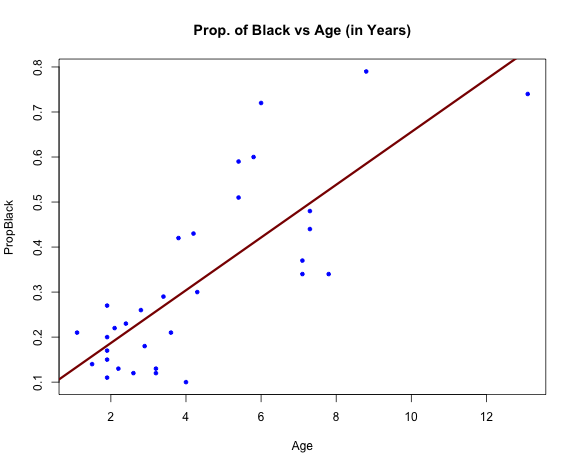
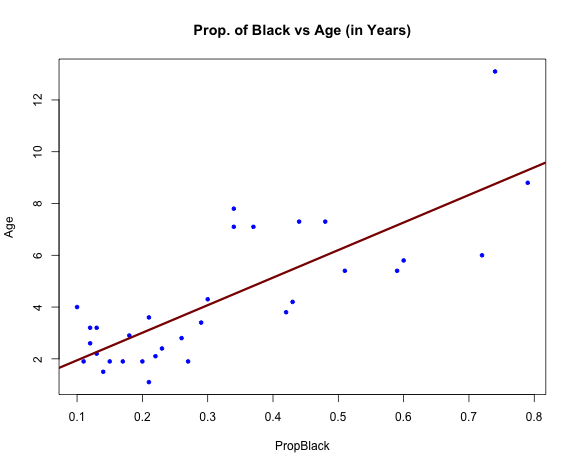
Commit
Commit

diff --git a/index.html b/index.html
@@ -487,7 +487,7 @@ class: inverse, center, middle
 
 --
 
-- Compares the sample quantiles to the quantiles of a theoretical normal distribution
+- Compares the sample quantiles to the quantiles of a theoretical distribution
 
 &lt;br&gt;
 
@@ -810,20 +810,20 @@ To assess model assumptions using real data, we'll use the **`Lion Nose`** datas
 ```
 ## 
 ## Call:
-## lm(formula = PropBlack ~ Age, data = Lion)
+## lm(formula = Age ~ PropBlack, data = Lion)
 ## 
 ## Residuals:
-##      Min       1Q   Median       3Q      Max 
-## -0.20406 -0.07758 -0.01750  0.07913  0.29876 
+##     Min      1Q  Median      3Q     Max 
+## -2.5449 -1.1117 -0.5285  0.9635  4.3421 
 ## 
 ## Coefficients:
 ##             Estimate Std. Error t value Pr(&gt;|t|)    
-## (Intercept) 0.069696   0.041956   1.661    0.107    
-## Age         0.058591   0.008307   7.053 7.68e-08 ***
+## (Intercept)   0.8790     0.5688   1.545    0.133    
+## PropBlack    10.6471     1.5095   7.053 7.68e-08 ***
 ## ---
 ## Signif. codes:  0 '***' 0.001 '**' 0.01 '*' 0.05 '.' 0.1 ' ' 1
 ## 
-## Residual standard error: 0.1238 on 30 degrees of freedom
+## Residual standard error: 1.669 on 30 degrees of freedom
 ## Multiple R-squared:  0.6238,	Adjusted R-squared:  0.6113 
 ## F-statistic: 49.75 on 1 and 30 DF,  p-value: 7.677e-08
 ```
@@ -851,7 +851,7 @@ To assess model assumptions using real data, we'll use the **`Lion Nose`** datas
 ## 	studentized Breusch-Pagan test
 ## 
 ## data:  mod_fit
-## BP = 4.7224, df = 1, p-value = 0.02977
+## BP = 6.8946, df = 1, p-value = 0.008646
 ```
 
 
@@ -887,14 +887,14 @@ We will use the qqnorm to check for normality assumption and verify this using t
 ## 	Shapiro-Wilk normality test
 ## 
 ## data:  resid(mod_fit)
-## W = 0.9665, p-value = 0.4087
+## W = 0.93879, p-value = 0.0692
 ```
 
 ]
 
 --
 
-From the Shapiro normality test, with a P-value &gt; 0.05 (and at any conventional level of significance), we have evidence to conclude that this data is consistent with a normal distribution, as such **normality assumption** is met. 
+From the Shapiro normality test, with a P-value &gt; 0.05, we have 'evidence' to conclude that this data is consistent with a normal distribution, as such **normality assumption** is met. 
 
 
 
